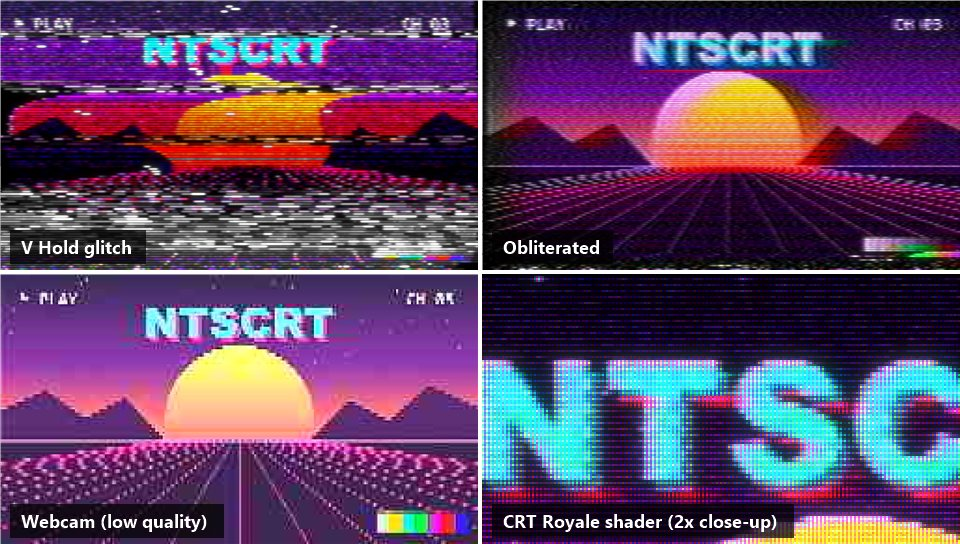
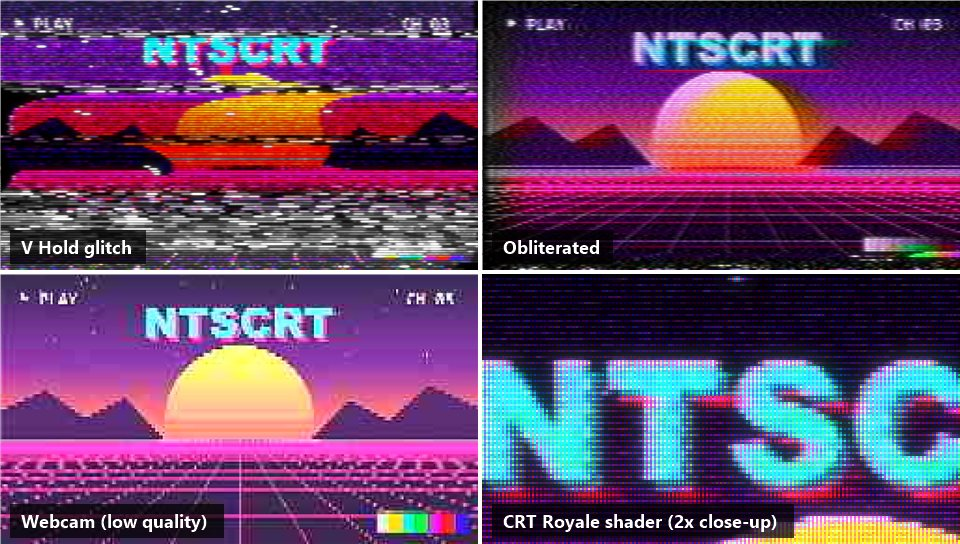
README: animated before/after preview
Replace the still hero image with a looping GIF of a scrolling test scene
(original left, default look right) so the temporal effects show.
make_previews.ps1 renders the sequence through ntscrt-cli --seq and encodes
it with ffmpeg; also fixes the scene's grid rows, which were drawn off-screen.

diff --git a/README.md b/README.md
@@ -8,8 +8,8 @@ circuits, RetroArch CRT shaders via librashader, digital codec, Screen Loop) as 
 
 Status: in development. See `docs/` for architecture and contracts.
 
-![Before/after: a test scene untouched on the left, through NTSCRT's default look on the right](docs/images/hero-before-after.jpg)
-*Before / after with the default look: chroma bleed, noise, scanlines and CRT glow.*
+![Animated before/after: a scrolling synthwave test scene untouched on the left, through NTSCRT's default look on the right](docs/images/hero-before-after.gif)
+*Before / after with the default look, in motion: chroma bleed, moving noise, scanlines and CRT glow.*
 
 ![Four NTSCRT looks: V Hold glitch, Obliterated, Webcam (low quality) and a close-up of the CRT Royale shader](docs/images/looks-grid.jpg)
 *A few of the bundled looks and CRT shaders (rendered with `scripts/make_previews.ps1`).*

diff --git a/CHANGELOG.md b/CHANGELOG.md
@@ -14,6 +14,9 @@ The version lives in [`VERSION`](VERSION): the version of the next release (the 
 
 ## [Unreleased]
 
+### Changed
+- README: the before/after preview is now an animated GIF (`scripts/make_previews.ps1` renders it with ffmpeg).
+
 ## [0.3.0] - 2026-11-10
 
 First public release. (0.1 and 0.2 were internal milestones and were never tagged.)
